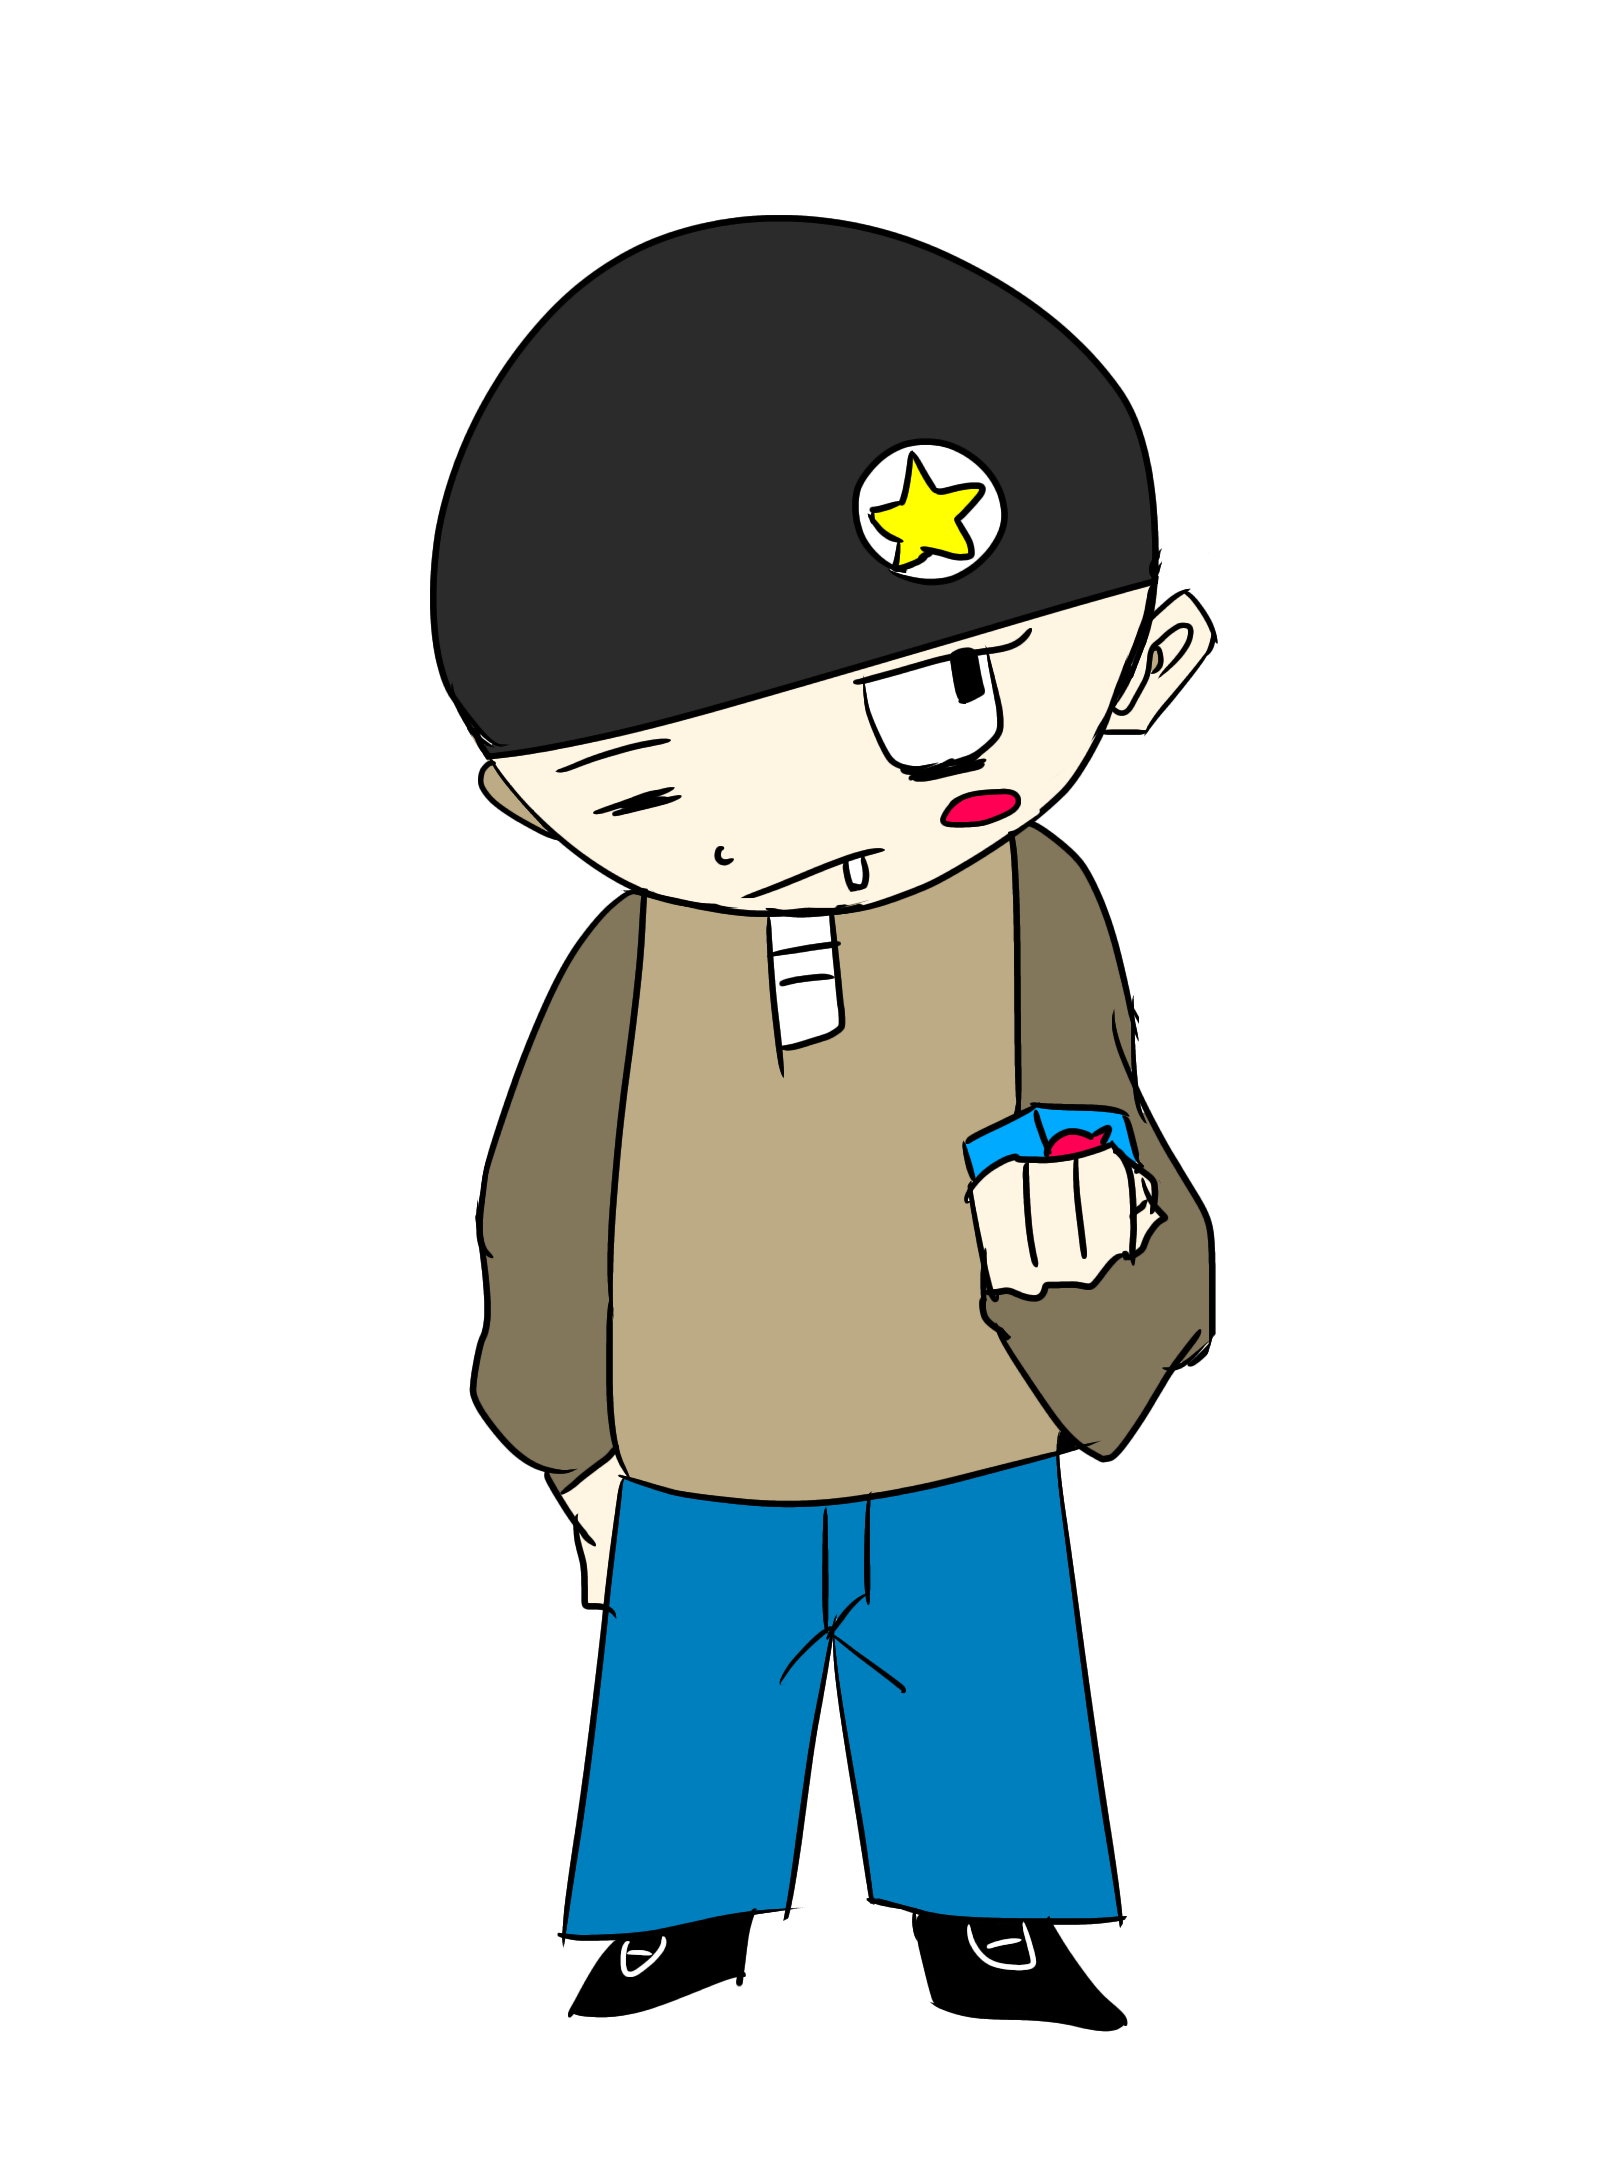
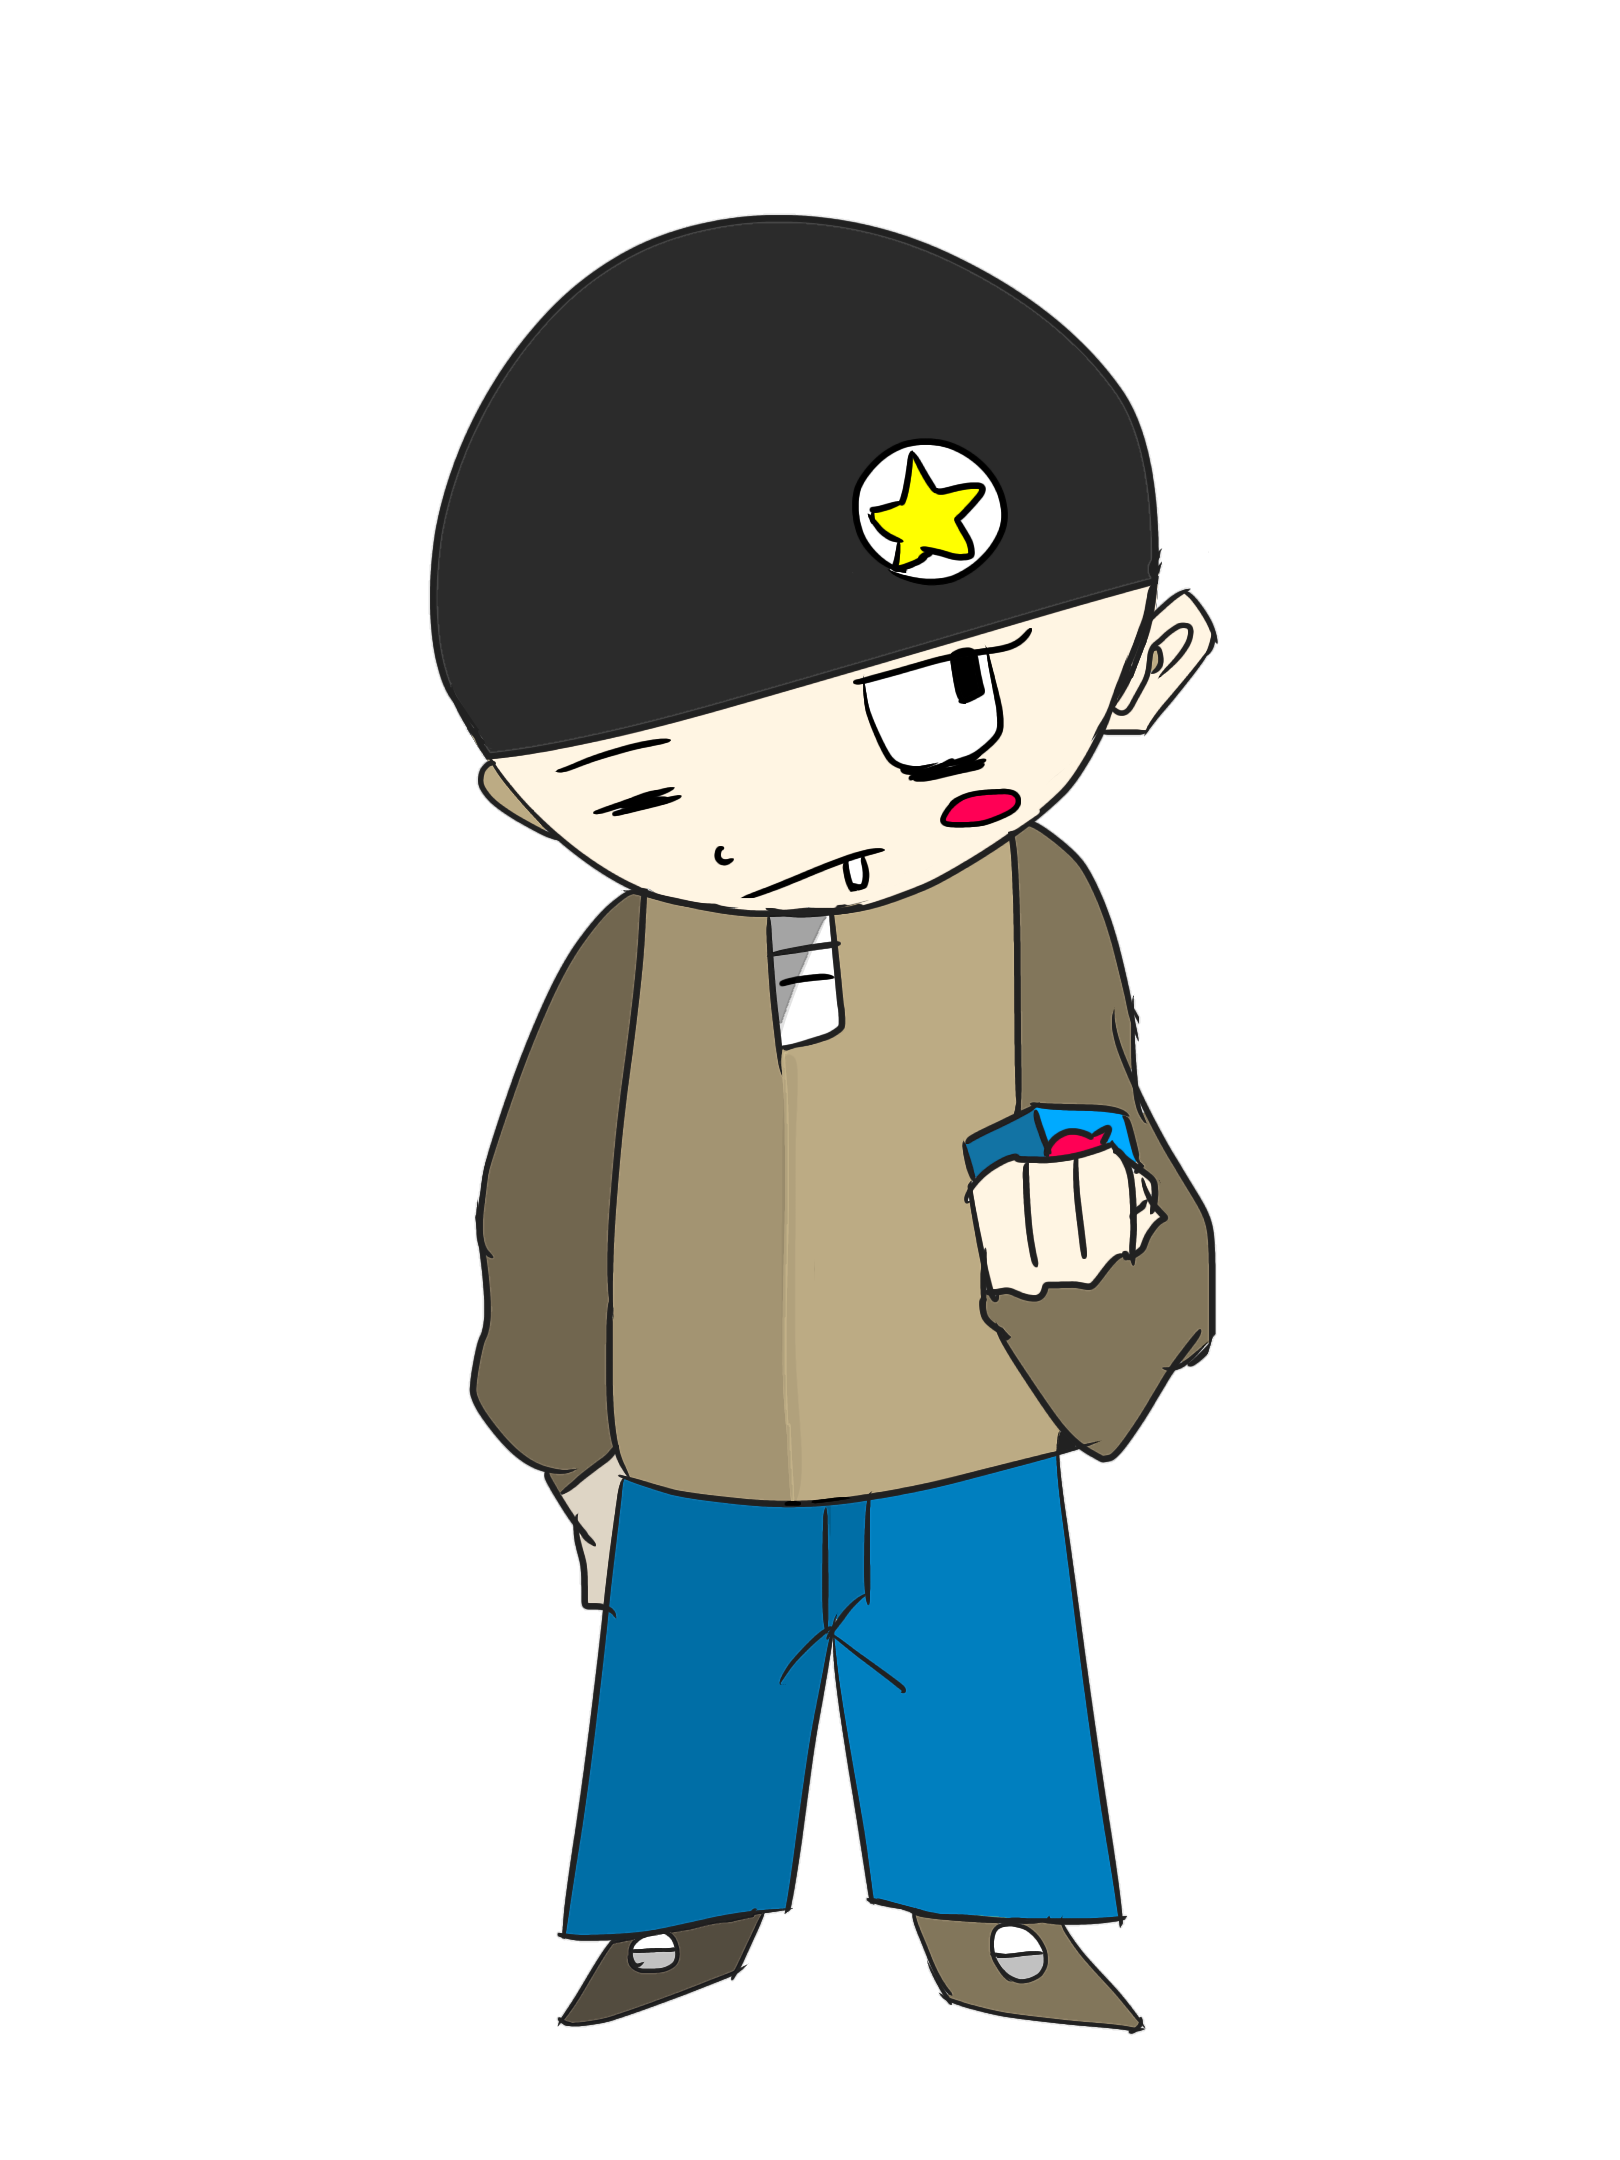
fix

diff --git a/content/blog/2020-05-09-illust.md b/content/blog/2020-05-09-illust.md
@@ -1,0 +1,103 @@
++++
+date = "2020-05-08JST"
+tags = ["illust"]
+title = "お絵かき講座、修了編"
+slug = "illust"
++++
+
+今回は、過去キャラを修正するついでにお絵かき講座でもやってみようかなと思ったのでやります。
+
+この講座を受講すれば完璧にお絵かきできるようになりますよ！(半分、嘘で、半分、本当
+
+なお、お絵かきができない、苦手だと思っている人が対象です。
+
+早速ですが、まずは月を好きなように描いてみてください。
+
+![](https://github.com/syui/mstdn.page/raw/master/img/mastodon/media_attachments/files/000/000/014/small/4fc73dc235c4afc1.png)
+
+できましたか？
+
+普通は、丸を描いて、色を塗りますよね。誰でも最初はそうなります。
+
+私もできました。
+
+![](https://github.com/syui/mstdn.page/raw/master/img/mastodon/media_attachments/files/000/000/012/small/86acab91d428230b.png)
+
+半分は黒にし、半分は黄色です。
+
+真ん中で線を引いて、両色で塗りつぶせばいいでしょう。
+
+同じようにやってみてください。
+
+できました？
+
+それはすごい。これであなたも絵をかけます。おそらく、うまく描ける。
+
+なんでこんなことでと思いました？
+
+でも、違うのですよ、それは。
+
+私が描いている絵の本質は、この半円の月、半月にあります。
+
+ですから、これを描けたということは、あなたは絵をかけるということです。
+
+いや、本当は最初からできたのでしょう。気づいていなかっただけで。
+
+次は、お絵かき修了編です。ここから難易度が少しだけ上がります。気を引き締めてください。
+
+もう一度同じように、月を描いてみてほしいのですが、今度は、黒ではなく、`透過な黒`を使って同じようなことをしてみてください。真ん中で線を引いて、黒(透明)で塗りつぶします。
+
+できましたか？
+
+私もできました。こんな感じになりますね。
+
+![](https://github.com/syui/mstdn.page/raw/master/img/mastodon/media_attachments/files/000/000/016/small/88a05d55f21449ff.png)
+
+わかりにくい方は、以下の画像を参考にしてみてください。
+
+![](https://github.com/syui/mstdn.page/raw/master/img/mastodon/media_attachments/files/000/000/010/small/af00c0c43ade21ed.jpg)
+
+これができたなら、あなたは、もうお絵かきマスターです。よく頑張りました。
+
+例えば、キャラを描くとき、同じ色のままにして完成ではいけません。これはパッと見でもわかるんですが、なんかかっこよくないんですよね。影をつけないと、かっこよくないのです。
+
+逆に言うと、影がうまくついていると、かっこよく見えます。
+
+では、影をうまくつけるにはどうするのでしょう。
+
+究極の答えとしては「半分」を意識するということになります。
+
+例えば、半月はシンプルで、かつデザインに優れています。お絵かきにおける私の哲学です。
+
+ですから、半分を若干黒くしたり、または、白くしたりすることがとても重要。これは、透明色で上塗りすることで実現します。
+
+例えば、黒が基本色の場合、白(透明)で上塗りです。白(透明)でパーっと境界線を引いて塗りつぶしですね。
+
+![](https://github.com/syui/mstdn.page/raw/master/img/mastodon/media_attachments/files/000/000/011/small/981b713f53bfd258.jpg)
+
+境界線は、迷ったら半分を意識します。腕の中心、腕の真ん中、足の半分、斜めに半分など。下記の絵を見て、色が若干、黒くなっている部分に注目してみてください。
+
+![](https://github.com/syui/mstdn.page/raw/master/img/mastodon/media_attachments/files/000/000/015/original/abbb4de9d7847a25.png)
+
+丁寧に書くときは、透明黒・白の濃さを段階に分けて調整していきます。最大でも3段階くらいがいいでしょうか。私は写真を描きたいわけではないので、必ずしも現実と一致している必要はありません。理想で構わないし、パッと見でいい感じならよいのです。
+
+次に使用する色についても少しだけ話します。私が一つのキャラに使う色は、3色くらいです。それを濃くしたり、薄くしたりで使います。とはいえ、まずはそのキャラのテーマ色、例えば、キョウスケなら紫、アイなら白というふうに、パッと見で思い浮かべる色を決めるようにしています。上記のイラストはかなり微妙ですが、おそらく、茶色でしょう。
+
+私は、次に使う事も考えて、基本的にはパレットの基本色から選ぶことが多いです。仮にこれがその時々で選びぬいた色だった場合、次に塗るときも大変です。
+
+これでお絵かき講座は修了です。
+
+迷ったときは、半月を思い出してみてください。
+
+それは簡単ではあるものの、シンプルで美しく、かつデザインにも優れていると思います。
+
+私が絵を描くときの基本です。
+
+![](https://github.com/syui/mstdn.page/raw/master/img/mastodon/media_attachments/files/000/000/012/small/86acab91d428230b.png)
+
+なお、月は定規を使って描いても良かったんですが、これは難しい問題でもあります。
+
+一度、カチッと仕上げてしまうと、例えば、背景とかですが、カチッとしてしまうと、他と合わなくなる可能性が高くなるというか、雑に描けなくなってしまうので、使い所は難しかったりします。
+
+私の場合、一枚絵なら、定規を使う場合もありますが、マンガなら使わないでしょう。今回はお絵かき講座ということもあり、使いませんでした。デザイン性を考えるなら、使ったほうがいいですね。
+
